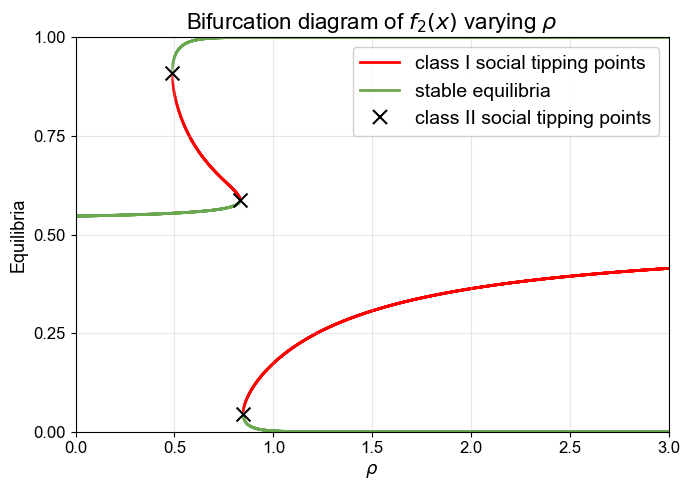
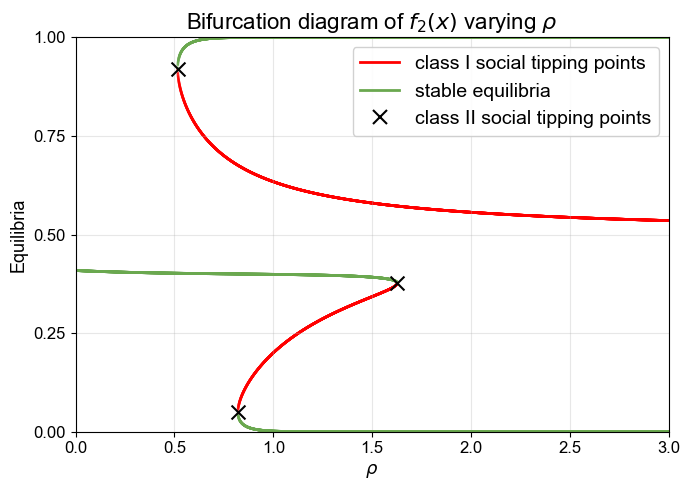
bugs fixed (mu=0.4, thick top line in mu, W range)

diff --git a/bifurcation_mu.py b/bifurcation_mu.py
@@ -143,13 +143,36 @@ def generate_diagram(output_path='figures/bifurcation_mu.png'):
             turning_x.append(result.x)
             turning_y.append(y_val)
     
+    # Split stable points by branch using turning point thresholds
+    if turning_y:
+        lower_knee = min(turning_y)
+        upper_knee = max(turning_y)
+        
+        bottom_stable_x = [sx for sx, sy in zip(stable_x, stable_y) if sy < lower_knee]
+        bottom_stable_y = [sy for sy in stable_y if sy < lower_knee]
+        top_stable_x = [sx for sx, sy in zip(stable_x, stable_y) if sy > upper_knee]
+        top_stable_y = [sy for sy in stable_y if sy > upper_knee]
+        middle_stable_x = [sx for sx, sy in zip(stable_x, stable_y) 
+                          if lower_knee <= sy <= upper_knee]
+        middle_stable_y = [sy for sy in stable_y if lower_knee <= sy <= upper_knee]
+    else:
+        bottom_stable_x, bottom_stable_y = stable_x, stable_y
+        top_stable_x, top_stable_y = [], []
+        middle_stable_x, middle_stable_y = [], []
+    
     fig, ax = plt.subplots(figsize=(7, 5), dpi=100)
     
     if unstable_x:
         ax.scatter(unstable_x, unstable_y, c='red', s=4, alpha=0.7,
                    zorder=1, edgecolors='none')
-    if stable_x:
-        ax.scatter(stable_x, stable_y, c='#6aa84f', s=4, alpha=0.7,
+    if bottom_stable_x:
+        ax.scatter(bottom_stable_x, bottom_stable_y, c='#6aa84f', s=4, alpha=0.7,
+                   zorder=2, edgecolors='none')
+    if top_stable_x:
+        ax.scatter(top_stable_x, top_stable_y, c='#6aa84f', s=12, alpha=0.7,
+                   zorder=2, edgecolors='none')
+    if middle_stable_x:
+        ax.scatter(middle_stable_x, middle_stable_y, c='#6aa84f', s=4, alpha=0.7,
                    zorder=2, edgecolors='none')
     if turning_x:
         ax.scatter(turning_x, turning_y, c='black', s=100, marker='x',

diff --git a/bifurcation_W1.py b/bifurcation_W1.py
@@ -81,11 +81,11 @@ def find_fixed_points(mu, beta, rho, W1, W2, n_guess=200):
     return sorted(fixed_points, key=lambda x: x[0])
 
 
-def generate_diagram(output_path='figures/bifurcation_W1.png', mu_value=0.54):
+def generate_diagram(output_path='figures/bifurcation_W1.png', mu_value=0.4):
     """Generate bifurcation diagram for varying W₁."""
     params = DEFAULT_PARAMS.copy()
     params['mu'] = mu_value
-    param_range = (-1.5, 1.5)
+    param_range = (-1.5, 2)
     n_points = 1000
     n_guess = 200
     

diff --git a/bifurcation_beta.py b/bifurcation_beta.py
@@ -81,7 +81,7 @@ def find_fixed_points(mu, beta, rho, W1, W2, n_guess=200):
     return sorted(fixed_points, key=lambda x: x[0])
 
 
-def generate_diagram(output_path='figures/bifurcation_beta.png', mu_value=0.54):
+def generate_diagram(output_path='figures/bifurcation_beta.png', mu_value=0.4):
     """Generate bifurcation diagram for varying β."""
     params = DEFAULT_PARAMS.copy()
     params['mu'] = mu_value

diff --git a/bifurcation_rho.py b/bifurcation_rho.py
@@ -81,7 +81,7 @@ def find_fixed_points(mu, beta, rho, W1, W2, n_guess=200):
     return sorted(fixed_points, key=lambda x: x[0])
 
 
-def generate_diagram(output_path='figures/bifurcation_rho.png', mu_value=0.54):
+def generate_diagram(output_path='figures/bifurcation_rho.png', mu_value=0.4):
     """Generate bifurcation diagram for varying ρ."""
     params = DEFAULT_PARAMS.copy()
     params['mu'] = mu_value
